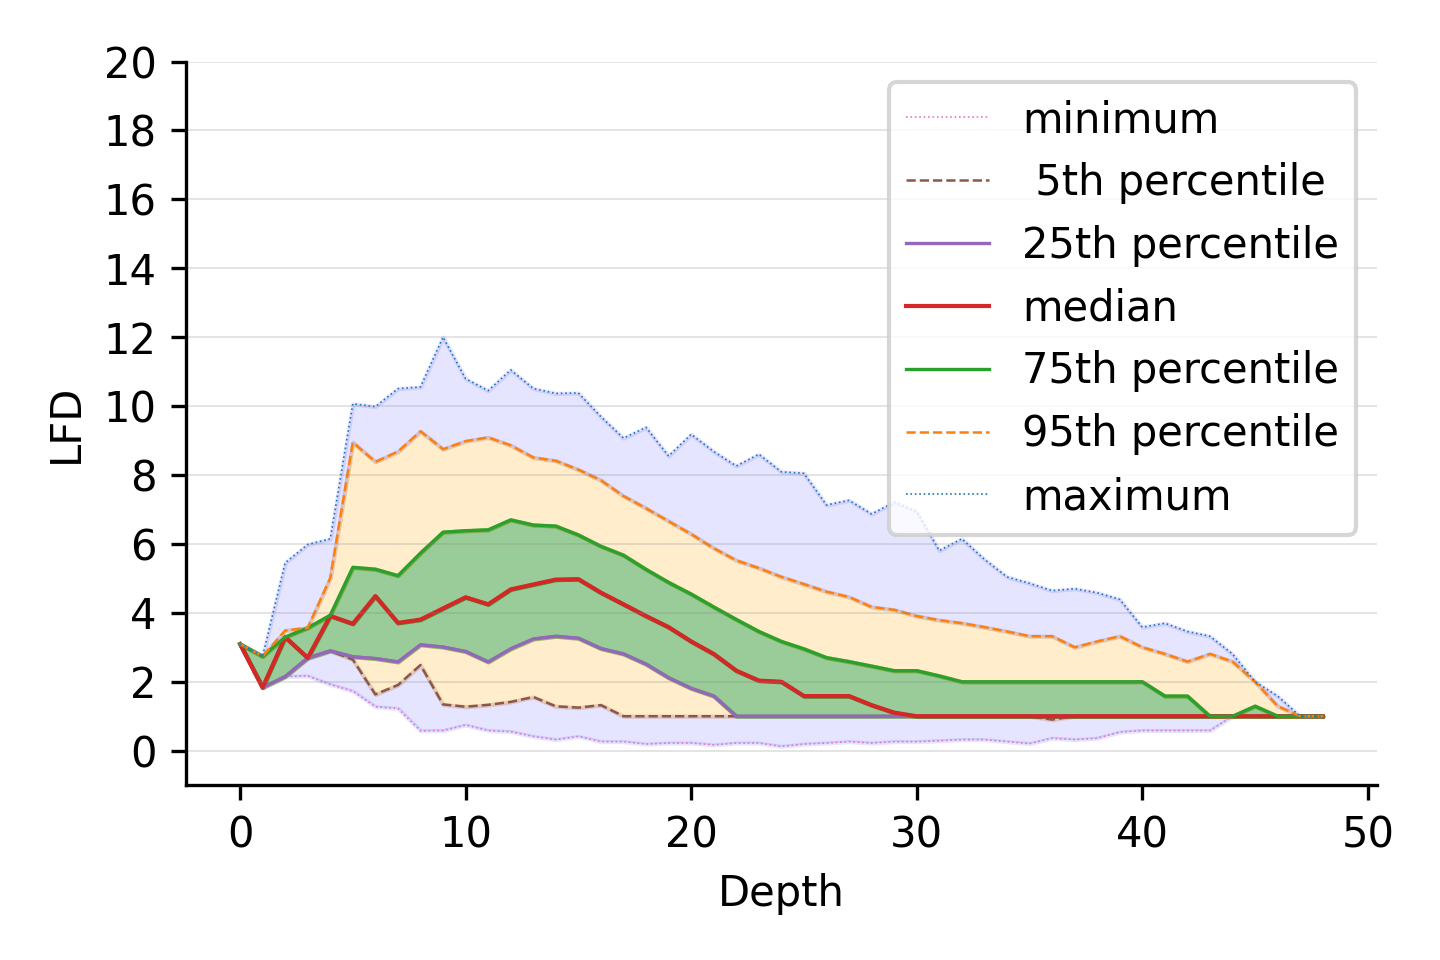
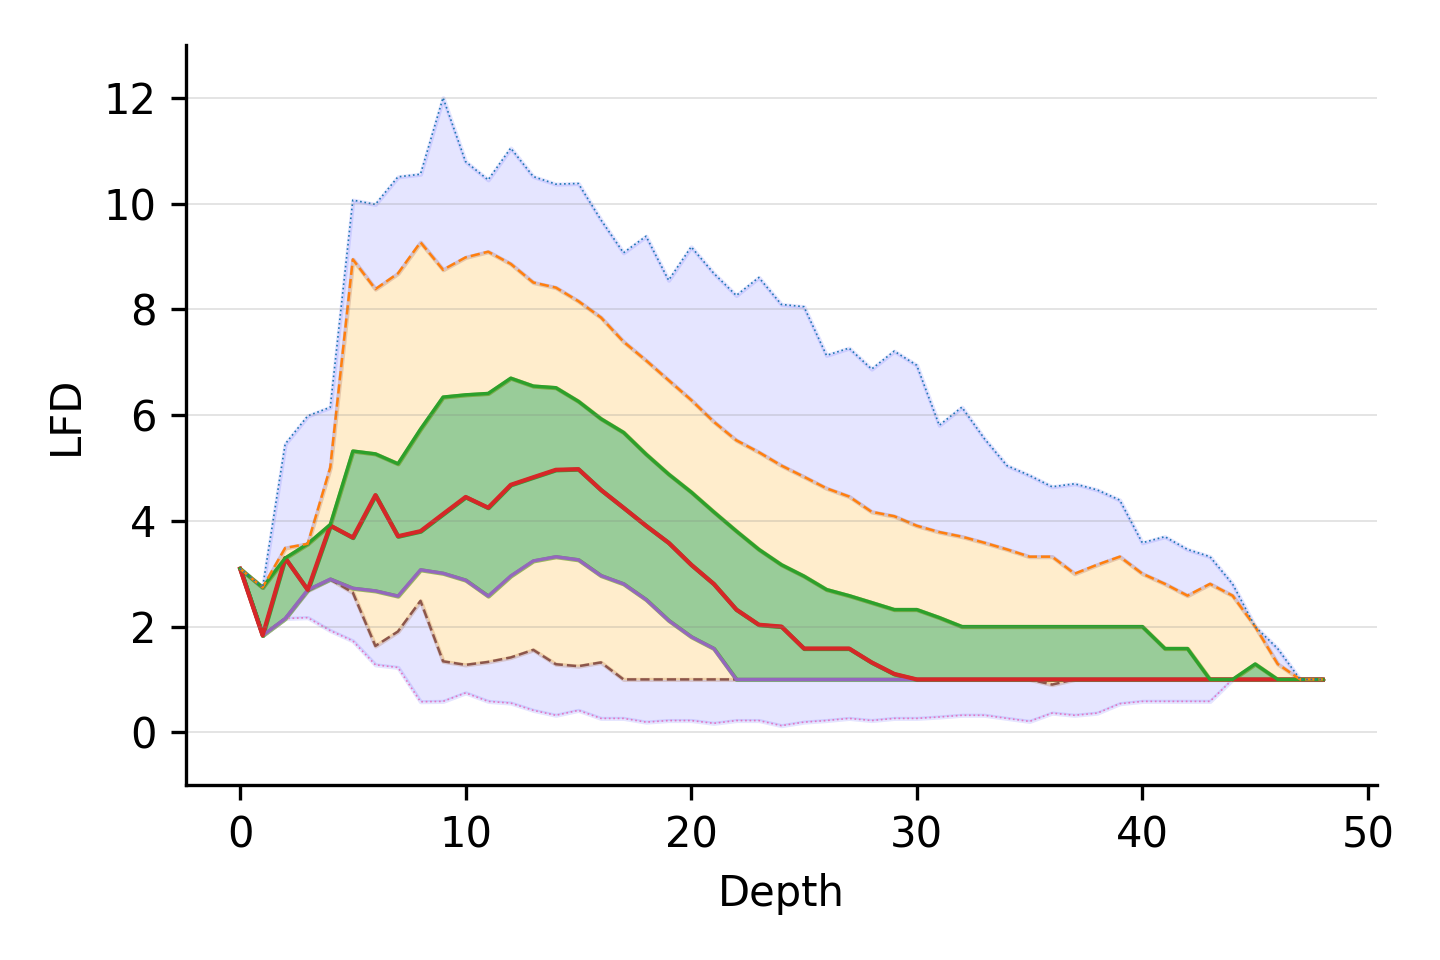
added legends

diff --git a/sections/4-results.tex b/sections/4-results.tex
@@ -54,38 +54,46 @@ The median LFD follows a similar pattern of peaks and troughs, fluctuating betwe
 \begin{figure}
     \captionsetup[subfigure]{aboveskip=-15pt,belowskip=-3pt}
     \begin{subfigure}[b]{0.47\textwidth}
-        \includegraphics[width=0.95\textwidth]{images/lfd/fashion-mnist.png}\\
+        \includegraphics[width=0.9\textwidth]{images/lfd/fashion-mnist.png}\\
         \subcaption{Fashion-mnist}
         \label{fig:results:fashion-mnist-lfd}
     \end{subfigure}%
     \begin{subfigure}[b]{0.47\textwidth}
-        \includegraphics[width=0.95\textwidth]{images/lfd/glove-25.png}\\
+        \includegraphics[width=0.9\textwidth]{images/lfd/glove-25.png}\\
         \subcaption{Glove-25}
         \label{fig:results:glove-25-lfd}
     \end{subfigure}
     \\
     \begin{subfigure}[b]{0.47\textwidth}
-        \includegraphics[width=0.95\textwidth]{images/lfd/sift.png}\\
+        \includegraphics[width=0.9\textwidth]{images/lfd/sift.png}\\
         \subcaption{Sift}
         \label{fig:results:sift-lfd}
     \end{subfigure}%
     \begin{subfigure}[b]{0.47\textwidth}
-        \includegraphics[width=0.95\textwidth]{images/lfd/random.png}\\
+        \includegraphics[width=0.9\textwidth]{images/lfd/random.png}\\
         \subcaption{A random dataset}
         \label{fig:results:random-lfd}
     \end{subfigure}
     \\
     \begin{subfigure}[b]{0.47\textwidth}
-        \includegraphics[width=0.95\textwidth]{images/lfd/silva-SSU-Ref.png}\\
+        \includegraphics[width=0.9\textwidth]{images/lfd/silva-SSU-Ref.png}\\
         \subcaption{Silva 18S}
         \label{fig:results:silva-lfd}
     \end{subfigure}%
     \begin{subfigure}[b]{0.47\textwidth}
-        \includegraphics[width=0.95\textwidth]{images/lfd/radio-ml.png}\\
+        \includegraphics[width=0.9\textwidth]{images/lfd/radio-ml.png}\\
         \subcaption{RadioML}
         \label{fig:results:radioml-lfd}
     \end{subfigure}%
-    \caption{Local fractal dimension vs. cluster depth across six datasets, grouped by percentiles of local fractal dimension and weighted by the cardinalities of the clusters.}
+    \\
+    \vskip 0.005in
+    \begin{subfigure}[b]{0.94\textwidth}
+        \centering
+        \includegraphics[width=0.7\textwidth]{images/lfd/legend.png}
+        \label{fig:results:lfd-legend}
+    \end{subfigure}%
+    \caption{Local fractal dimension vs. cluster depth across six datasets, grouped by percentiles of local fractal dimension and weighted by the cardinalities of the clusters.
+    Note that the y-axis is different for the random dataset.}
     \label{fig:results:lfd-plots}
 \end{figure}
 
@@ -147,36 +155,42 @@ In particular, throughput of CAKES's algorithms is identical within three signif
 
 \begin{figure}
     \begin{subfigure}[b]{0.47\textwidth}
-        \includegraphics[width=0.95\textwidth]{plots/fashion-mnist_PermutedBall_10_throughput.png}
+        \includegraphics[width=1.0\textwidth]{plots/fashion-mnist_PermutedBall_10_throughput.png}
         \subcaption{Fashion-Mnist for $k=10$.}
         \label{fig:results:fashion-mnist-scaling}
     \end{subfigure}%
     \begin{subfigure}[b]{0.47\textwidth}
-        \includegraphics[width=0.95\textwidth]{plots/glove-25_PermutedBall_10_throughput.png}
+        \includegraphics[width=1.0\textwidth]{plots/glove-25_PermutedBall_10_throughput.png}
         \subcaption{Glove-25 for $k=10$.}
         \label{fig:results:glove-25-scaling}
     \end{subfigure}%
     \\
     \begin{subfigure}[b]{0.47\textwidth}
-        \includegraphics[width=0.95\textwidth]{plots/sift_PermutedBall_10_throughput.png}
+        \includegraphics[width=1.0\textwidth]{plots/sift_PermutedBall_10_throughput.png}
         \subcaption{Sift for $k=10$.}
         \label{fig:results:sift-scaling}
     \end{subfigure}%
     \begin{subfigure}[b]{0.47\textwidth}
-        \includegraphics[width=0.95\textwidth]{plots/random_PermutedBall_10_throughput.png}
+        \includegraphics[width=1.0\textwidth]{plots/random_PermutedBall_10_throughput.png}
         \subcaption{A random dataset for $k=10$.}
         \label{fig:results:random-scaling}
     \end{subfigure}%
     \\
     \begin{subfigure}[b]{0.47\textwidth}
-        \includegraphics[width=0.95\textwidth]{plots/silva-SSU-Ref_PermutedBall_10_throughput.png}
+        \includegraphics[width=1.0\textwidth]{plots/silva-SSU-Ref_PermutedBall_10_throughput.png}
         \subcaption{Silva for $k=10$.}
         \label{fig:results:silva-scaling}
     \end{subfigure}%
     \begin{subfigure}[b]{0.47\textwidth}
-        \includegraphics[width=0.95\textwidth]{plots/radio-ml_Ball_10_throughput.png}
+        \includegraphics[width=1.0\textwidth]{plots/radio-ml_Ball_10_throughput.png}
         \subcaption{RadioML for $k=10$ at SnR = 10dB.}
         \label{fig:results:radioml-scaling}
+    \end{subfigure}%
+    \\
+    \begin{subfigure}[b]{0.94\textwidth}
+        \centering
+        \includegraphics[width=0.7\textwidth]{plots/legend.png}
+        \label{fig:results:scaling-legend}
     \end{subfigure}%
     \caption{Throughput across six datasets, including a randomly-generated dataset.
     In each plot, the horizontal axis represents increasing cardinality of the dataset, while the vertical axis represents the throughput in queries per second (higher is better).
@@ -188,36 +202,42 @@ In particular, throughput of CAKES's algorithms is identical within three signif
 
 \begin{figure}
     \begin{subfigure}[b]{0.47\textwidth}
-        \includegraphics[width=0.95\textwidth]{images/distance_counts/fashion-mnist_KnnRepeatedRnn_10_throughput.png}
+        \includegraphics[width=1.0\textwidth]{images/distance_counts/fashion-mnist_KnnRepeatedRnn_10_throughput.png}
         \subcaption{Repeated $\rho$-NN}
         \label{fig:results:fashion-mnist-counts-throughput}
     \end{subfigure}%
     \begin{subfigure}[b]{0.47\textwidth}
-        \includegraphics[width=0.95\textwidth]{images/distance_counts/fashion-mnist_KnnRepeatedRnn_10_counts.png}
+        \includegraphics[width=1.0\textwidth]{images/distance_counts/fashion-mnist_KnnRepeatedRnn_10_counts.png}
         \subcaption{Repeated $\rho$-NN}
         \label{fig:results:glove-25-counts-counts}
     \end{subfigure}%
     \\
     \begin{subfigure}[b]{0.47\textwidth}
-        \includegraphics[width=0.95\textwidth]{images/distance_counts/fashion-mnist_KnnBreadthFirst_10_throughput.png}
+        \includegraphics[width=1.0\textwidth]{images/distance_counts/fashion-mnist_KnnBreadthFirst_10_throughput.png}
         \subcaption{Breadth First Sieve}
         \label{fig:results:sift-counts-throughput}
     \end{subfigure}%
     \begin{subfigure}[b]{0.47\textwidth}
-        \includegraphics[width=0.95\textwidth]{images/distance_counts/fashion-mnist_KnnBreadthFirst_10_counts.png}
+        \includegraphics[width=1.0\textwidth]{images/distance_counts/fashion-mnist_KnnBreadthFirst_10_counts.png}
         \subcaption{Breadth First Sieve}
         \label{fig:results:random-counts-counts}
     \end{subfigure}%
     \\
     \begin{subfigure}[b]{0.47\textwidth}
-        \includegraphics[width=0.95\textwidth]{images/distance_counts/fashion-mnist_KnnDepthFirst_10_throughput.png}
+        \includegraphics[width=1.0\textwidth]{images/distance_counts/fashion-mnist_KnnDepthFirst_10_throughput.png}
         \subcaption{Depth First Sieve}
         \label{fig:results:silva-counts-throughput}
     \end{subfigure}%
     \begin{subfigure}[b]{0.47\textwidth}
-        \includegraphics[width=0.95\textwidth]{images/distance_counts/fashion-mnist_KnnDepthFirst_10_counts.png}
+        \includegraphics[width=1.0\textwidth]{images/distance_counts/fashion-mnist_KnnDepthFirst_10_counts.png}
         \subcaption{Depth First Sieve}
         \label{fig:results:radioml-counts-counts}
+    \end{subfigure}%
+    \\
+    \begin{subfigure}[b]{0.94\textwidth}
+        \centering
+        \includegraphics[width=0.6\textwidth]{images/distance_counts/legend.png}
+        \label{fig:results:counts-legend}
     \end{subfigure}%
     \caption{Number of distance computations across four clustering strategies and three search algorithms on the Fashion-Mnist dataset.
     Adding the instrumentation to count the number of distance computations had the side-effect of significantly slowing down the search algorithms compared to those reported in Figure~\ref{fig:results:scaling-plots}.
